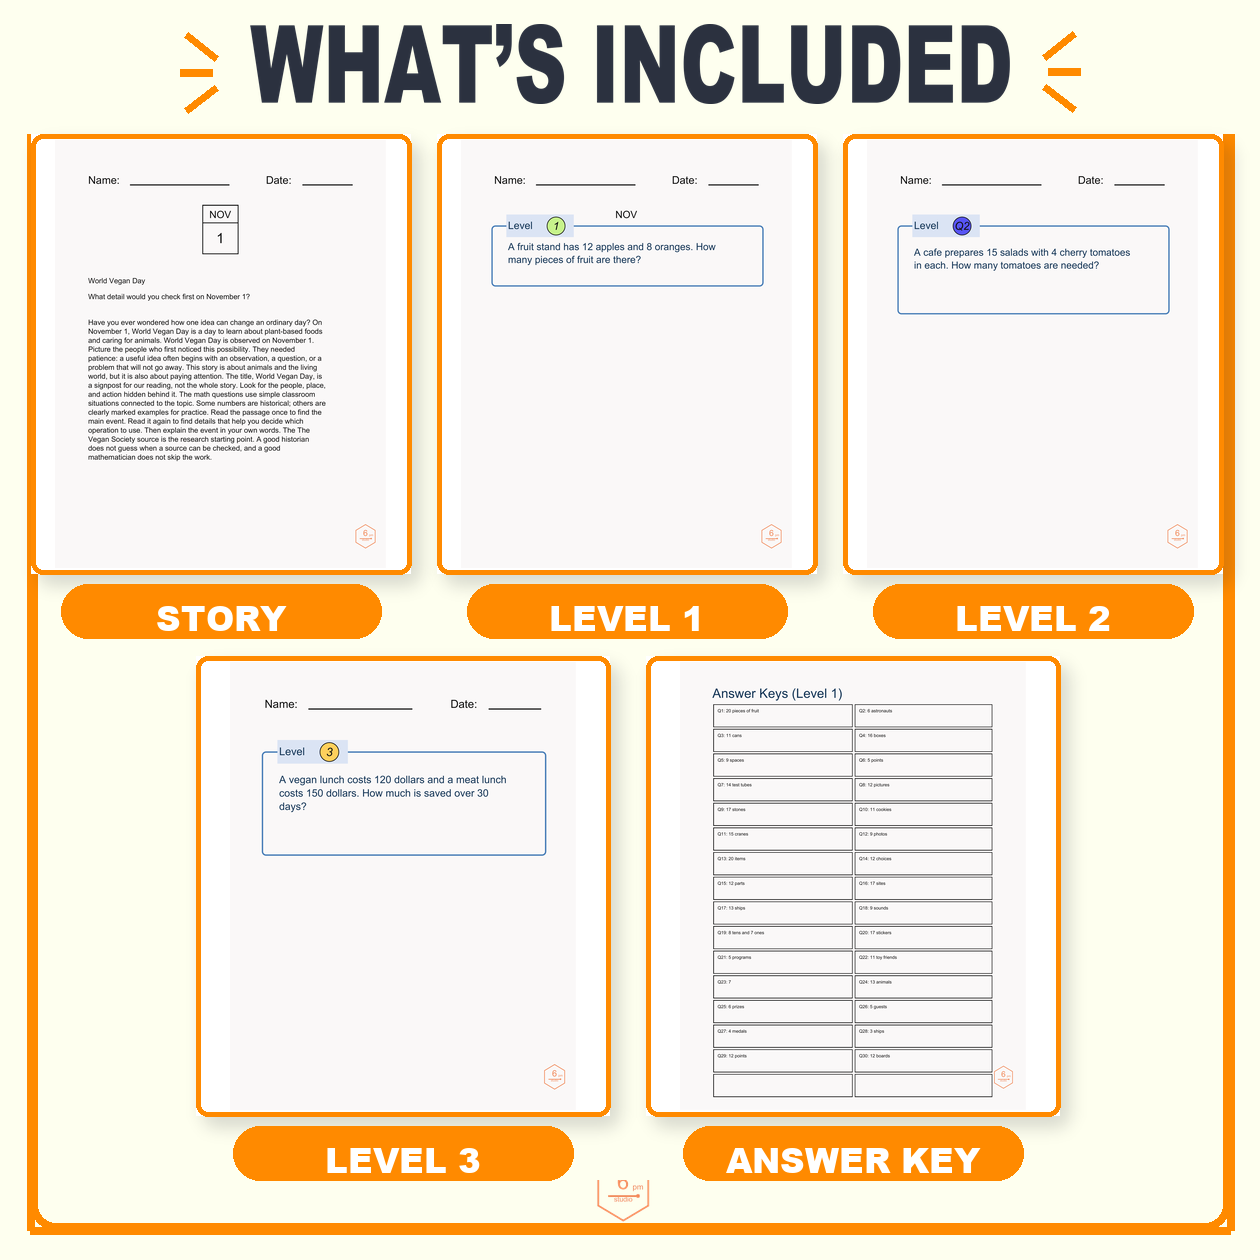
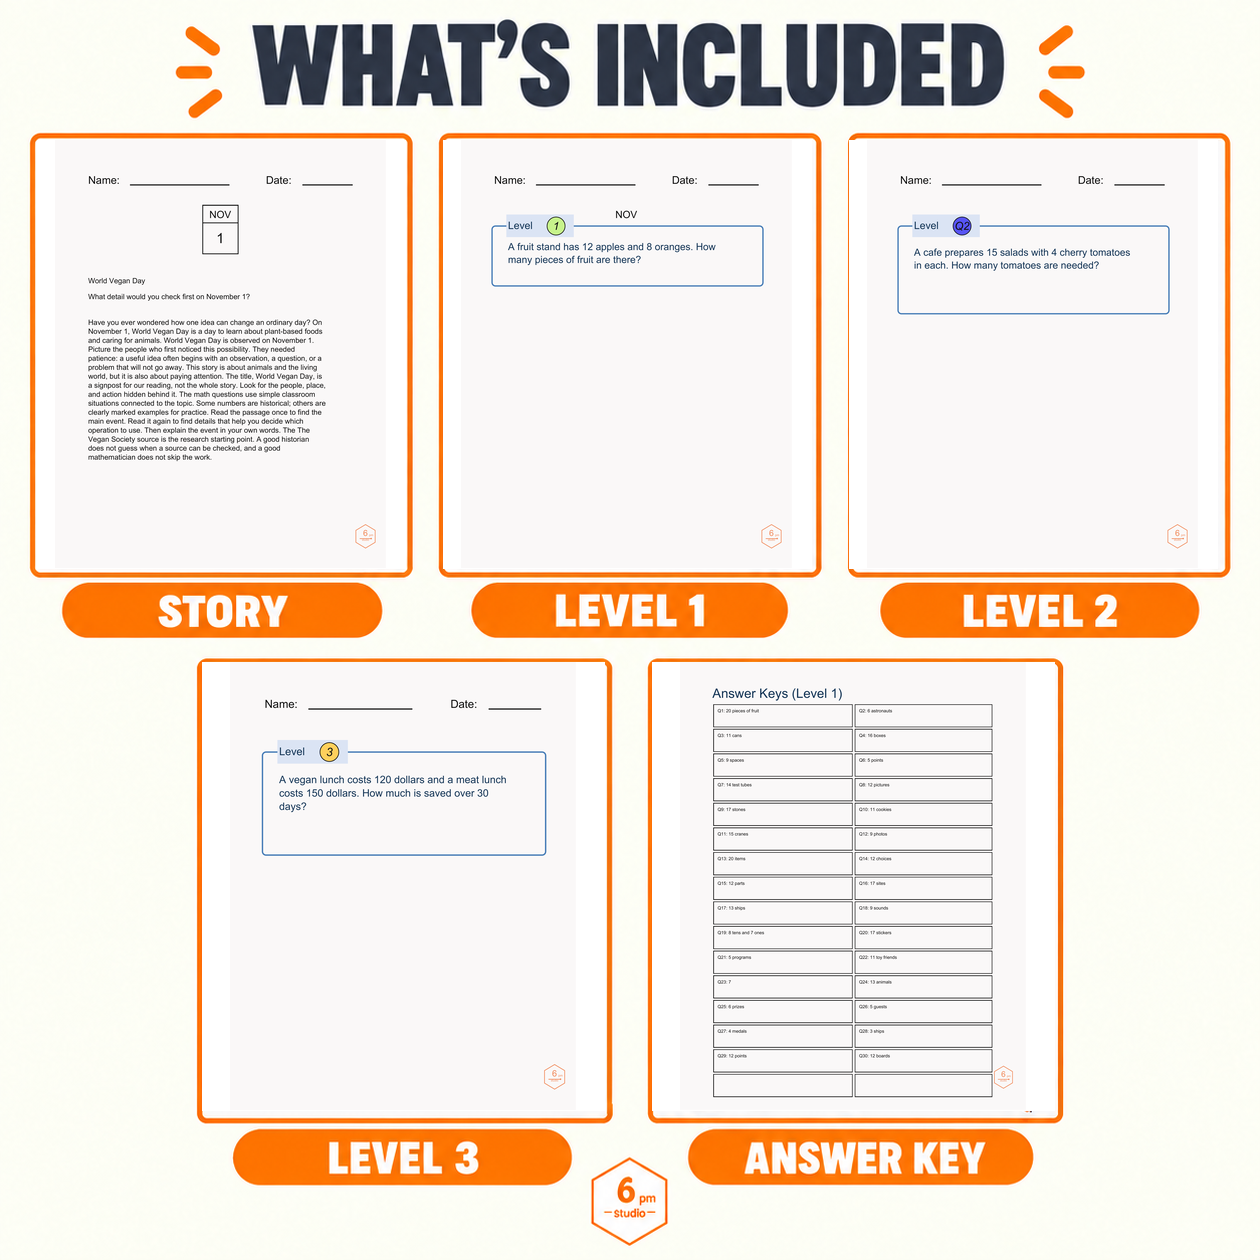
Fix November whats-included thumbnail parity

Changed region(s): [[0.0, 0.0, 0.9905, 0.9905]]

diff --git a/scripts/generate_monthly_thumbnails.py b/scripts/generate_monthly_thumbnails.py
@@ -306,29 +306,31 @@ def compose_whats_included(month, pages, out):
         # geometry below with month-specific real PDF pages substituted.
         Image.open(canonical).convert("RGB").resize((SIZE, SIZE), Image.Resampling.LANCZOS).save(out, "PNG", optimize=True)
         return
-    canvas = base_canvas()
+    # Use the approved October raster as the complete fixed-region source of
+    # truth. Only replace the five worksheet screenshot interiors; this keeps
+    # the frame, headline, pills, shadows, spacing, and footer logo pixel
+    # stable instead of approximating them with a second drawing.
+    canvas = Image.open(canonical).convert("RGBA") if canonical.exists() else base_canvas()
+    if canvas.size != (SIZE, SIZE):
+        canvas = canvas.resize((SIZE, SIZE), Image.Resampling.LANCZOS)
+    cards = [
+        ("story", (31, 134, 380, 440)),
+        ("level1", (437, 134, 380, 440)),
+        ("level2", (843, 134, 380, 440)),
+        ("level3", (196, 656, 414, 460)),
+        ("answer_key", (646, 656, 414, 460)),
+    ]
     draw = ImageDraw.Draw(canvas)
-    # Thumbnail 2's canonical frame begins at the card row; its top area is
-    # intentionally open around the headline and rays.
-    draw.rectangle((0, 0, SIZE, 133), fill=BG)
-    draw.line((30, 134, 30, 1230), fill=ORANGE, width=8)
-    draw.line((1230, 134, 1230, 1230), fill=ORANGE, width=8)
-    draw.line((30, 1230, 1230, 1230), fill=ORANGE, width=8)
-    cover_text_box(canvas, "WHAT’S INCLUDED", (250, 24, 1010, 104))
-    for points in [
-        ((186, 34), (216, 58)), ((180, 72), (212, 72)), ((186, 110), (216, 87)),
-        ((1074, 34), (1044, 58)), ((1080, 72), (1048, 72)), ((1074, 110), (1044, 87)),
-    ]:
-        draw.line(points, fill=ORANGE, width=8)
-    for x, key, label in [(31, "story", "STORY"), (437, "level1", "LEVEL 1"), (843, "level2", "LEVEL 2")]:
-        card(canvas, pages[key], (x, 134, 380, 440), label, label_width=320)
-    for x, key, label in [(196, "level3", "LEVEL 3"), (646, "answer_key", "ANSWER KEY")]:
-        card(canvas, pages[key], (x, 656, 414, 460), label, label_width=340)
-    # The reference uses a centered logo below the second-row labels rather
-    # than the long divider lines used by the other thumbnail concepts.
-    logo_image = extract_page_logo(pages["story"])
-    logo_image.thumbnail((92, 92), Image.Resampling.LANCZOS)
-    canvas.alpha_composite(logo_image, ((SIZE - logo_image.width) // 2, 1180))
+    for key, (x, y, w, h) in cards:
+        source = Image.open(pages[key]).convert("RGB")
+        target_size = (w - 12, h - 12)
+        fitted_image = ImageOps.contain(source, target_size, method=Image.Resampling.LANCZOS)
+        # Clear only the screenshot interior, leaving the canonical orange
+        # border, shadow, pill label, and all other fixed pixels untouched.
+        draw.rectangle((x + 6, y + 6, x + w - 6, y + h - 6), fill="white")
+        paste_x = x + 6 + (target_size[0] - fitted_image.width) // 2
+        paste_y = y + 6 + (target_size[1] - fitted_image.height) // 2
+        canvas.paste(fitted_image, (paste_x, paste_y))
     canvas.convert("RGB").save(out, "PNG", optimize=True)
 
 

diff --git a/scripts/validate_thumbnail2_visual_parity.py b/scripts/validate_thumbnail2_visual_parity.py
@@ -28,6 +28,21 @@ VARIABLE_CARDS = {
 }
 
 
+def changed_pixels_outside_variable_regions(reference: Image.Image, generated: Image.Image):
+    reference_pixels = np.asarray(reference)
+    generated_pixels = np.asarray(generated)
+    changed = np.any(reference_pixels != generated_pixels, axis=2)
+    variable = np.zeros(changed.shape, dtype=bool)
+    for x0, y0, x1, y1 in VARIABLE_CARDS.values():
+        variable[y0:y1, x0:x1] = True
+    outside = changed & ~variable
+    return {
+        "compared_pixel_count": int(outside.size),
+        "changed_pixel_count": int(outside.sum()),
+        "changed_pixel_ratio": float(outside.mean()),
+    }
+
+
 def load(path: Path) -> Image.Image:
     image = Image.open(path).convert("RGB")
     if image.size != SIZE:
@@ -88,6 +103,7 @@ def main():
 
     fixed = {name: compare(reference, generated, box) for name, box in FIXED_REGIONS.items()}
     variable = {name: compare(reference, generated, box) for name, box in VARIABLE_CARDS.items()}
+    outside_variable = changed_pixels_outside_variable_regions(reference, generated)
     # The official PDF logo is a variable raster asset; geometry is checked
     # separately while the headline/labels remain the fixed-region gate.
     fixed_ssim = min(metric["ssim"] for name, metric in fixed.items() if name != "footer_logo")
@@ -97,13 +113,16 @@ def main():
         "normalized": {"size": list(SIZE), "mode": "RGB"},
         "fixedRegions": fixed,
         "variableCards": variable,
-        "visualAcceptance": {"fixedRegionMinSsim": fixed_ssim, "fixedRegionThreshold": 0.50, "footerLogoSsim": fixed["footer_logo"]["ssim"], "passed": fixed_ssim >= 0.50},
+        "outsideVariableRegions": outside_variable,
+        "visualAcceptance": {"fixedRegionMinSsim": fixed_ssim, "fixedRegionThreshold": 0.50, "footerLogoSsim": fixed["footer_logo"]["ssim"], "outsideVariableChangedPixelCount": outside_variable["changed_pixel_count"], "passed": fixed_ssim >= 0.50 and outside_variable["changed_pixel_count"] == 0},
         "artifacts": ["thumbnail-2-side-by-side.png", "thumbnail-2-overlay.png", "thumbnail-2-pixel-diff.png"],
         "visualReview": "human inspection required; fixed-region and variable-card metrics are recorded",
     }
     (args.output_dir / "thumbnail-2-visual-qa.json").write_text(json.dumps(report, indent=2) + "\n")
     if fixed_ssim < 0.50:
         raise SystemExit(f"Thumbnail 2 fixed-region SSIM below threshold: {fixed_ssim:.3f}")
+    if outside_variable["changed_pixel_count"]:
+        raise SystemExit("Thumbnail 2 changed pixels escaped the variable screenshot regions")
 
 
 if __name__ == "__main__":
